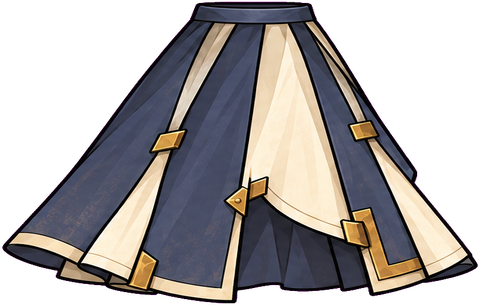
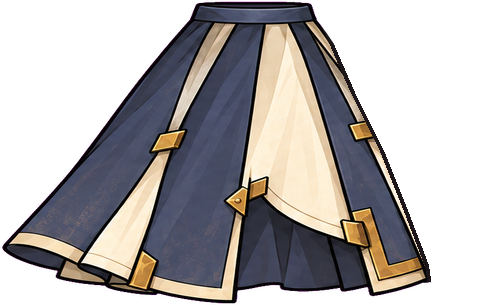
28 스카이: 치마 앞쪽 바깥 자락 잘라냄 (원본처럼 금색 탭 남색 판에서 앞면이 끝남)
- source/cut_skirt.py, 원본 보관 source/skirt_v2_full.png
- 검사: audit 위반 0·튐 0, 이음매·천·손 검사 모두 통과, 달릴 때 다리 노출 평균 14%

Claude-Session: https://claude.ai/code/session_01T44EZBZuKezHWyMnN8HdV9

Changed region(s): [[0.6875, 0.1475, 1.0, 0.9443]]

diff --git a/assets/rig/nicole-sky/source/cut_skirt.py b/assets/rig/nicole-sky/source/cut_skirt.py
@@ -1,0 +1,13 @@
+"""치마 앞쪽 바깥 자락 잘라내기 (2026-10-17, DHL "옷이 없어야 할 부분에 있어요")
+원본 그림처럼 치마 앞면이 금색 탭 달린 남색 판에서 끝나도록, 그 오른쪽의 크림 자락·좁은 띠를 잘라내고 잘린 가장자리에 잉크 선.
+입력 skirt_v2_full.png → 출력 ../parts/skirt.png.  실행: python3 -I cut_skirt.py"""
+import os, numpy as np
+from PIL import Image, ImageDraw
+HERE = os.path.dirname(os.path.abspath(__file__))
+src = Image.open(os.path.join(HERE, 'skirt_v2_full.png')).convert('RGBA'); W, H = src.size
+line = [(318, 14), (352, 92), (381, 150), (405, 210), (426, 265), (432, 305)]   # 금색 탭 남색 판의 오른쪽 가장자리 (그림 픽셀)
+cut = Image.new('L', (W, H), 0); ImageDraw.Draw(cut).polygon(line + [(W, H), (W, 0)], fill=255)
+a = np.asarray(src).copy(); a[..., 3] = np.where(np.asarray(cut) > 0, 0, a[..., 3])
+out = Image.fromarray(a); ImageDraw.Draw(out).line(line, fill=(28, 22, 26, 255), width=4, joint='curve')
+oa = np.asarray(out).copy(); oa[..., 3] = np.minimum(oa[..., 3], np.asarray(src)[..., 3])
+Image.fromarray(oa).save(os.path.join(HERE, '..', 'parts', 'skirt.png'))
